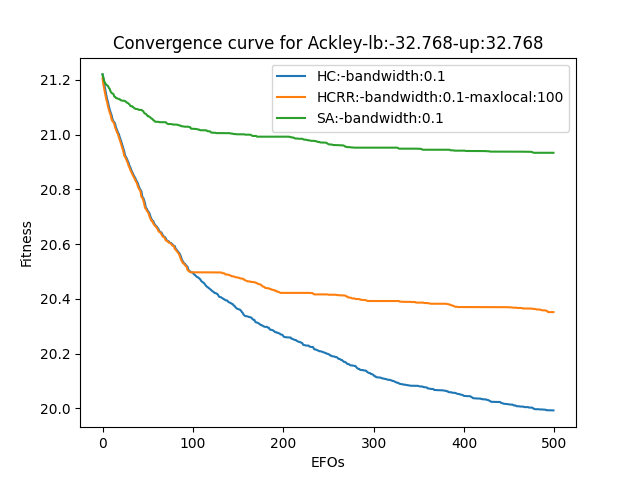
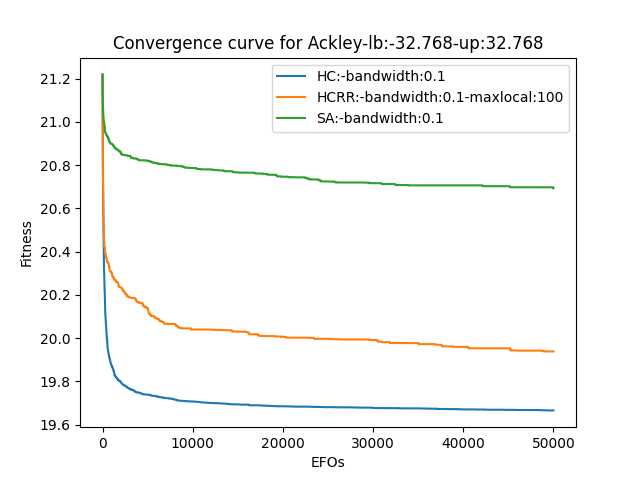
Ejecución max local 100 mac

diff --git a/Funciones-continuas/main.py b/Funciones-continuas/main.py
@@ -13,7 +13,7 @@ from algorithms.HCRR import HCRR
 from algorithms.SA import SA
 
 d = 50
-max_efos = 500
+max_efos = 50000
 repetitions = 31
 
 # Afinamiento de parametros
@@ -126,7 +126,7 @@ for f in functions:
   #                          'Execution Time':str(alg_time[3])}, index=[0])
   # df4 = pd.concat([df4.loc[:], new_row4]).reset_index(drop=True)
 
-df.to_csv("Funciones-continuas/result/HC.csv", index=False)
-df2.to_csv("Funciones-continuas/result/HCRR.csv", index=False)
-df3.to_csv("Funciones-continuas/result/SA.csv", index=False)
+df.to_csv("Funciones-continuas/result/HC"+ "-bw-" + str(bw) + "-max_local-" + str(max_local) + ".csv", index=False)
+df2.to_csv("Funciones-continuas/result/HCRR"+ "-bw-" + str(bw) + "-max_local-" + str(max_local) + ".csv", index=False)
+df3.to_csv("Funciones-continuas/result/SA"+ "-bw-" + str(bw) + "-max_local-" + str(max_local) + ".csv", index=False)
 # df4.to_csv("Funciones-continuas/Compilado.csv", index=False)
